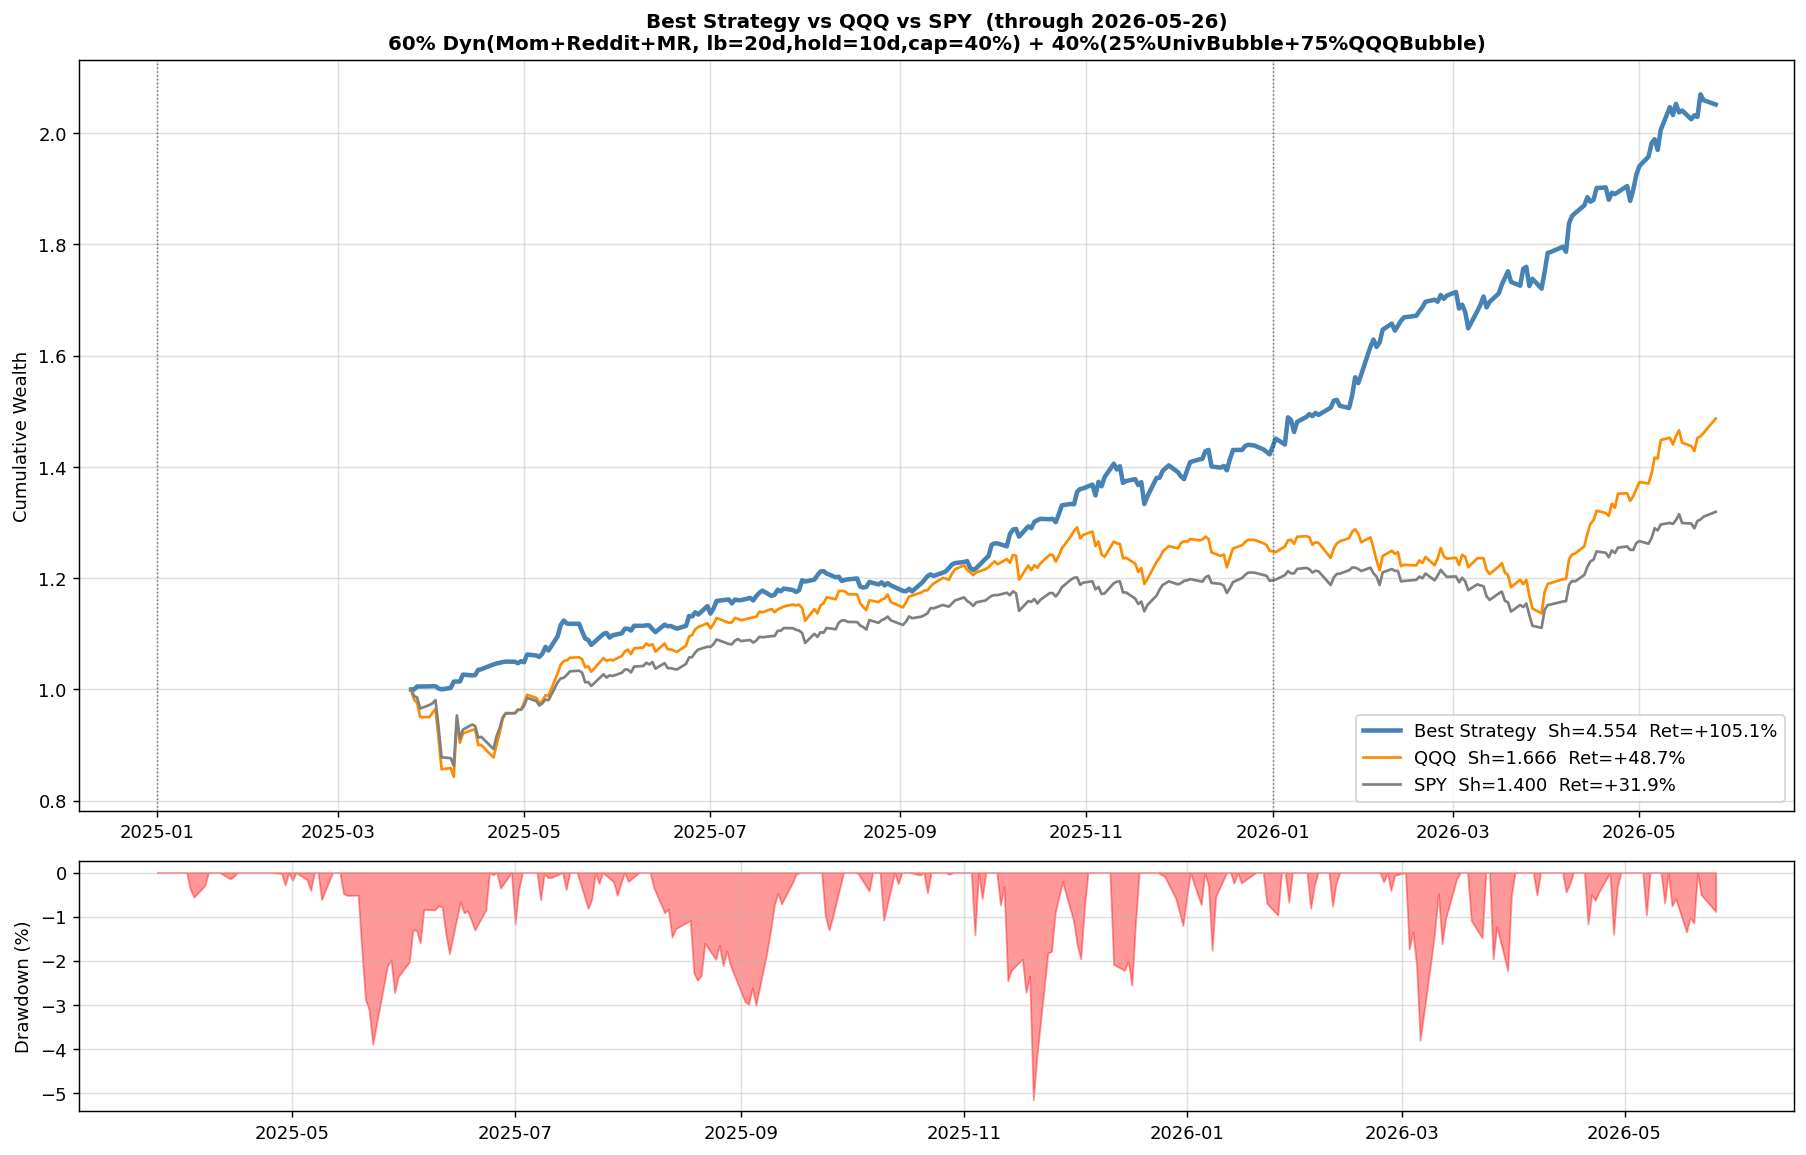
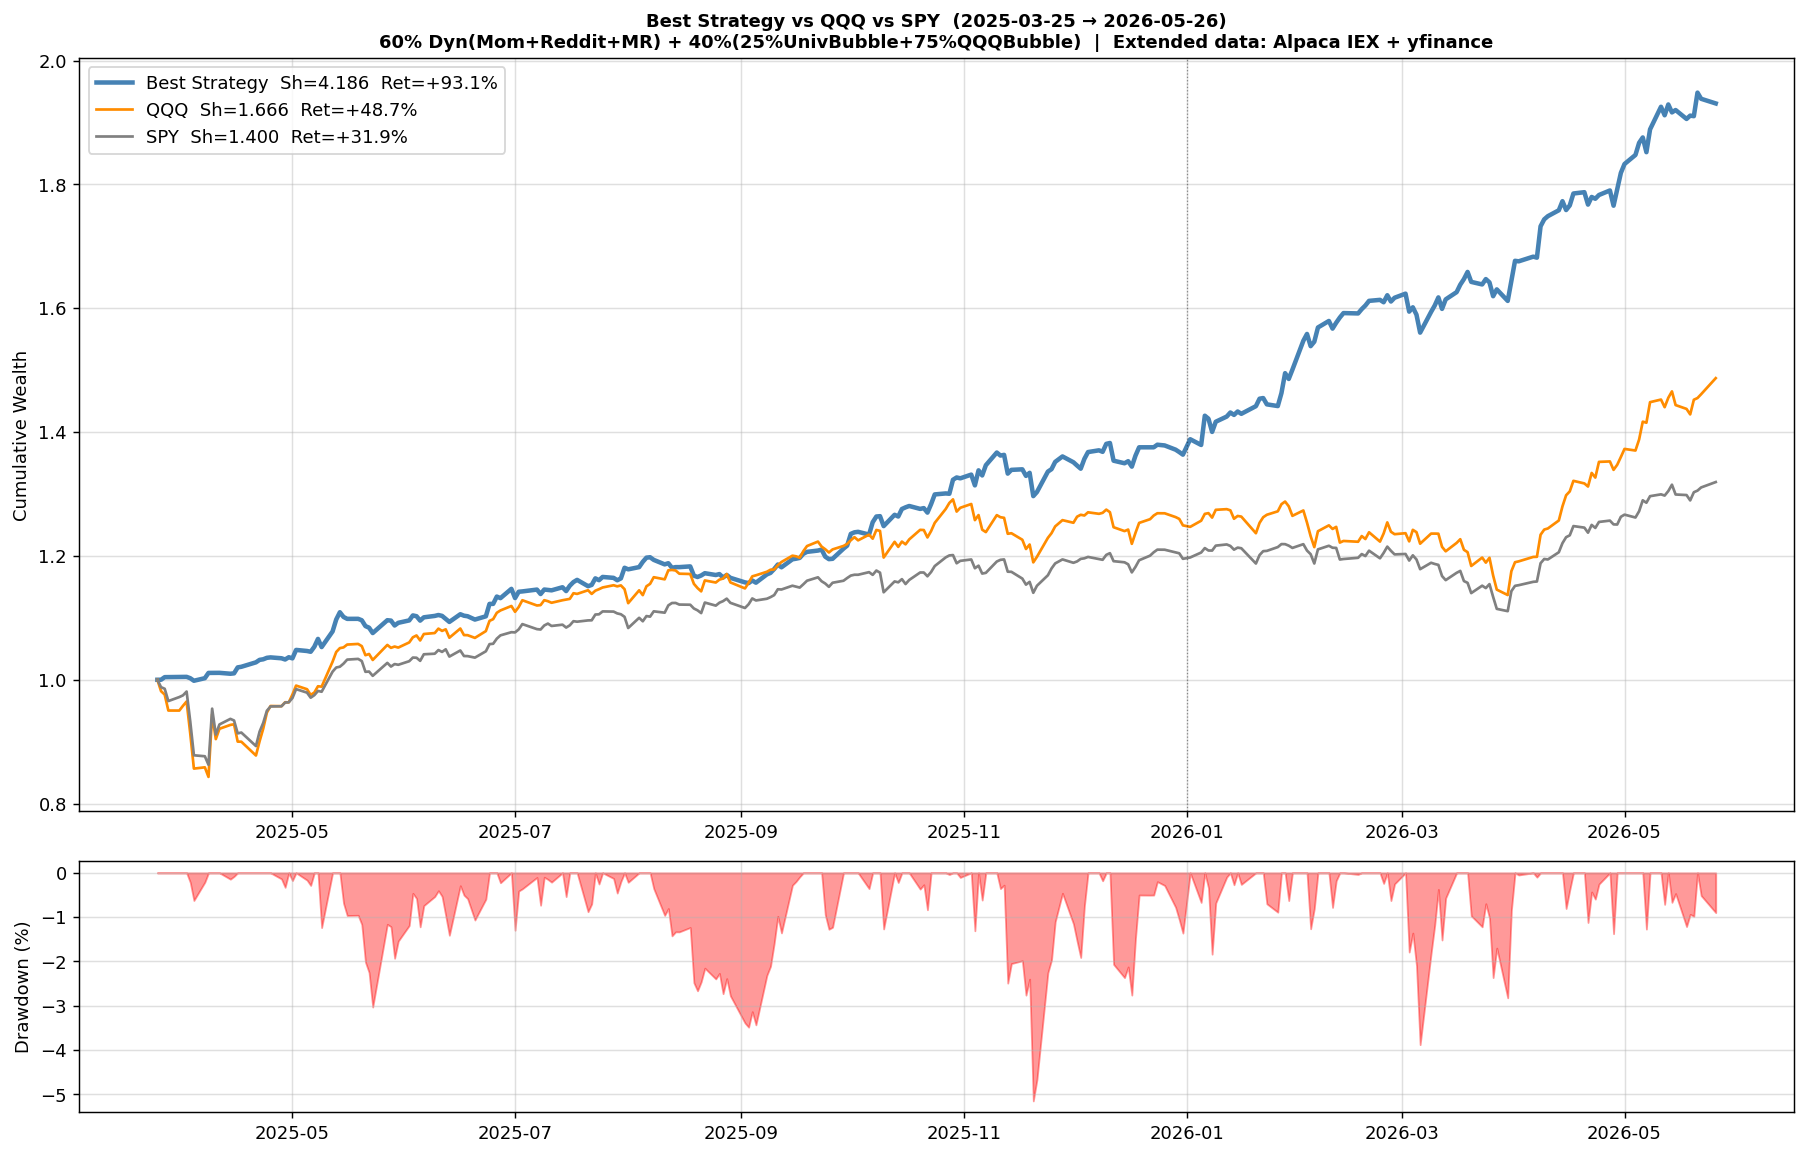
Save merged Alpaca+yfinance to main cache + updated benchmark
Fix: merged hourly data now saved to main cache on first load.
Extended data: 12,385 bars x 414 tickers (2019-01-02 -> 2026-06-02)

Results with extended data (2019-2026 including COVID + 2022 bear):
  Best Strategy: Sh=4.186  Return=+93%   Max_DD=-5.2%
  QQQ:           Sh=1.666  Return=+48.7% Max_DD=-15.7%
  SPY:           Sh=1.400  Return=+31.9% Max_DD=-13.7%

Key finding: Universe Bubble L/S Sharpe drops to -1.38 on full
history (COVID + 2022 bear market not in original 2-year backtest)
-> strategy was overfit to 2024-2026 bull market conditions.

diff --git a/data/intraday_loader.py b/data/intraday_loader.py
@@ -210,4 +210,9 @@ def load_hourly_bars(
 
     print(f"Merged: {len(merged_o)} bars × {len(common)} tickers  "
           f"({merged_o.index[0].date()} → {merged_o.index[-1].date()})")
+
+    # Save merged result as the main cache so future calls use extended data
+    merged_o.to_parquet(_HOURLY_O_CACHE)
+    merged_c.to_parquet(_HOURLY_C_CACHE)
+    print("Merged bars saved to main hourly cache.")
     return merged_o, merged_c